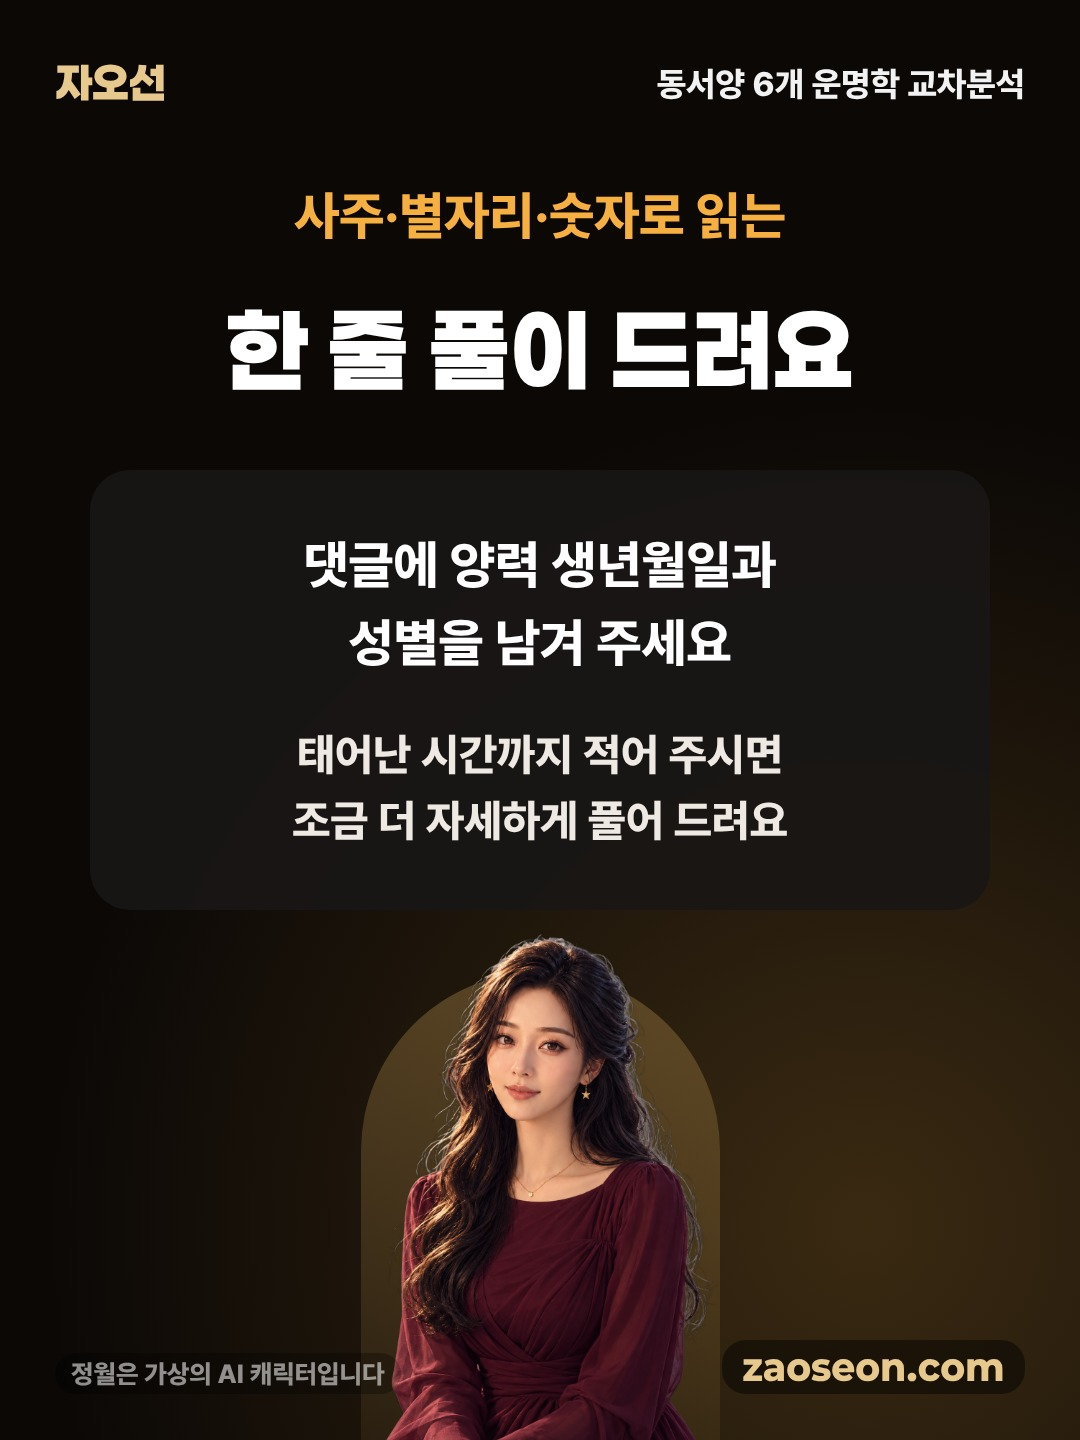
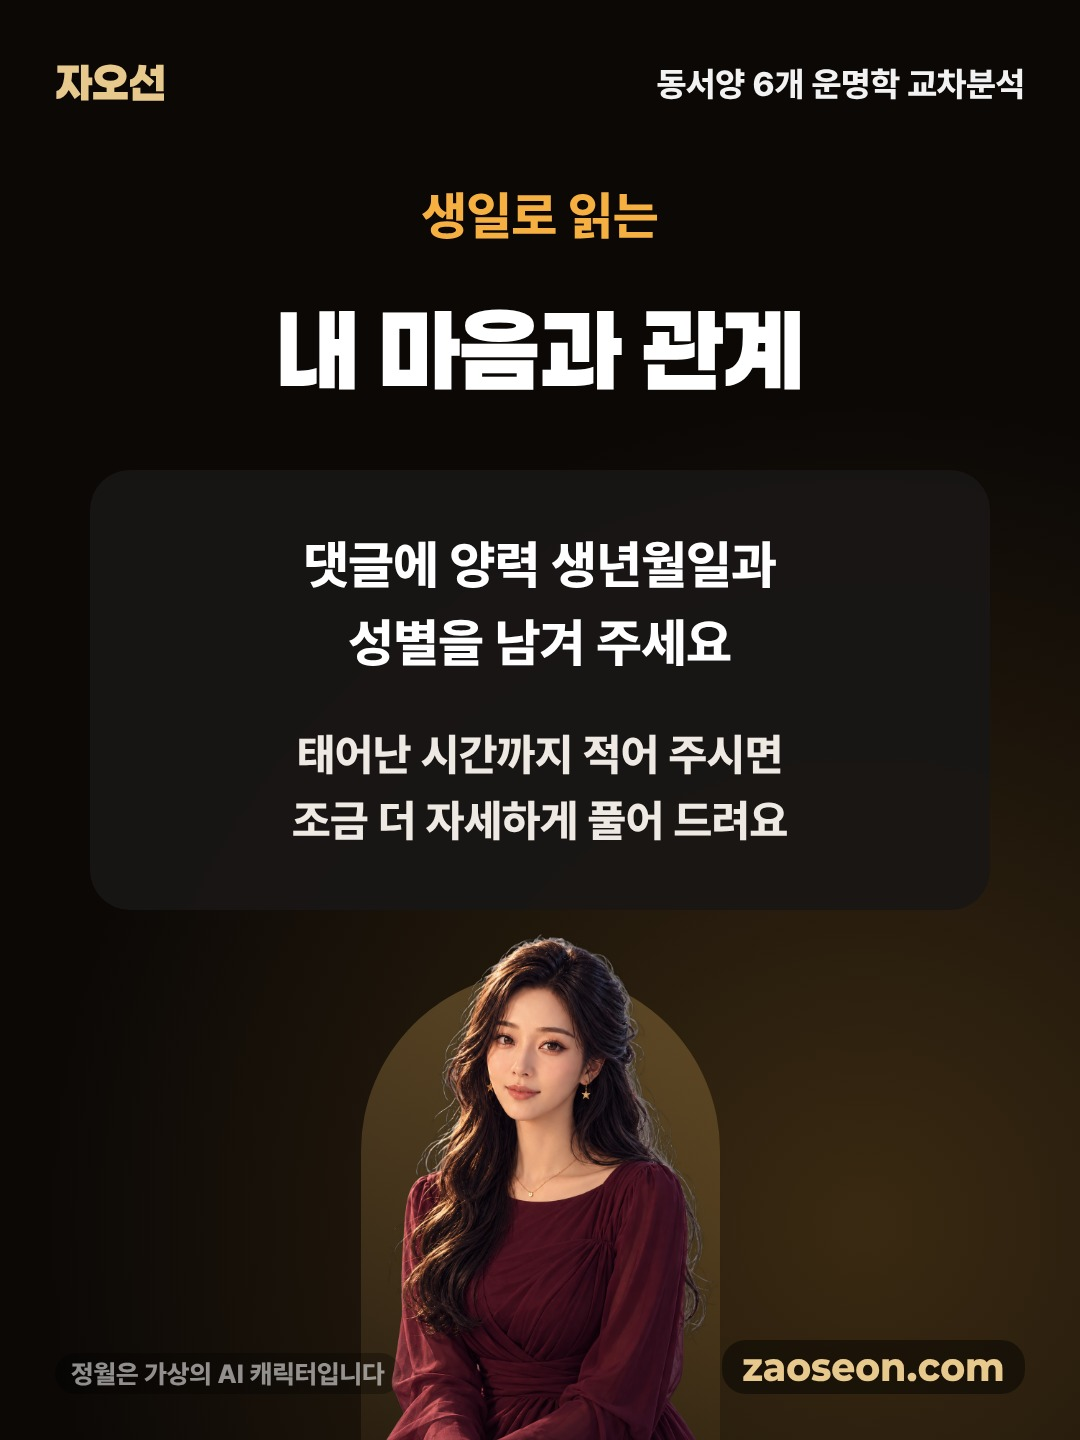
스하리 카드 제목: '한 줄 풀이 드려요' → '생일로 읽는 / 내 마음과 관계' (대표 10/14 권장안 2번)

Changed region(s): [[0.2139, 0.2188, 0.7944, 0.2812], [0.275, 0.125, 0.7333, 0.1875]]

diff --git a/2026-event/build.py b/2026-event/build.py
@@ -68,11 +68,12 @@ def follow1016():
         end_page('여러분은\n*무슨 띠*인가요?', '댓글로 참여해요', '참여 기간', '10월 16일 ~ 10월 29일', '당첨 소식은 스토리로 알려 드려요'),  # 10/14 대표 재요청 mv7l6sbe: 마지막 장 Instagram 고지 뺌(고지는 캡션에 그대로)
     ]
 def shari1020():   # 스레드 1장(캐러셀 아님): 매주 월 생년월일 한 줄 풀이 글 (10/14 대표 문구 확정, '스하리 데이' 말은 넣지 않음)
+    # 10/14 대표: 답글이 한 줄이 아니라 마음·관계까지 담으므로 제목을 '한 줄 풀이 드려요' → '생일로 읽는 / 내 마음과 관계'(권장안 2번, 답글 규칙에 관계 문장 추가와 함께)
     # 10/14 대표 재요청 mv7s2ww9 "정월 캐릭터 저렇게 쓰는 게 별로": 가운데 작게 떠 있던 잘린 상반신(v5_halfup)을 빼고,
     # 네이버 대표 이미지처럼 정월(v5_halfup_v2, 콘텐츠_제작_가이드 5-7)을 화면 아래에 붙여 크게 둔다. 뒤에 아치 판. 글 묶음은 위쪽에서 규칙대로.
     for fh, ts in ((600, 96), (580, 96), (560, 96), (540, 96), (520, 92)):
         p = new(); p.bg = 'ink'; p.ai = True; p.face_bottom = True
-        blocks = [IN(p, '사주·별자리·숫자로 읽는', 52, GOLD, lh=1.3, name='라벨'), T(p, '한 줄 풀이 드려요', ts, '#fff', 'title', 1.3, C_, 900, '제목'),
+        blocks = [IN(p, '생일로 읽는', 52, GOLD, lh=1.3, name='라벨'), T(p, '내 마음과 관계', ts, '#fff', 'title', 1.3, C_, 900, '제목'),
                   PANEL(p, [IN(p, '댓글에 양력 생년월일과\n성별을 남겨 주세요', 52, name='안내'), IN(p, '태어난 시간까지 적어 주시면\n조금 더 자세하게 풀어 드려요', 44, '#efe9e4', name='안내2')])]
         gaps = [40, 60]; y = B.TOP
         for b, g in zip(blocks, gaps + [0]): b['draw'](y); y += b['h'] + g
